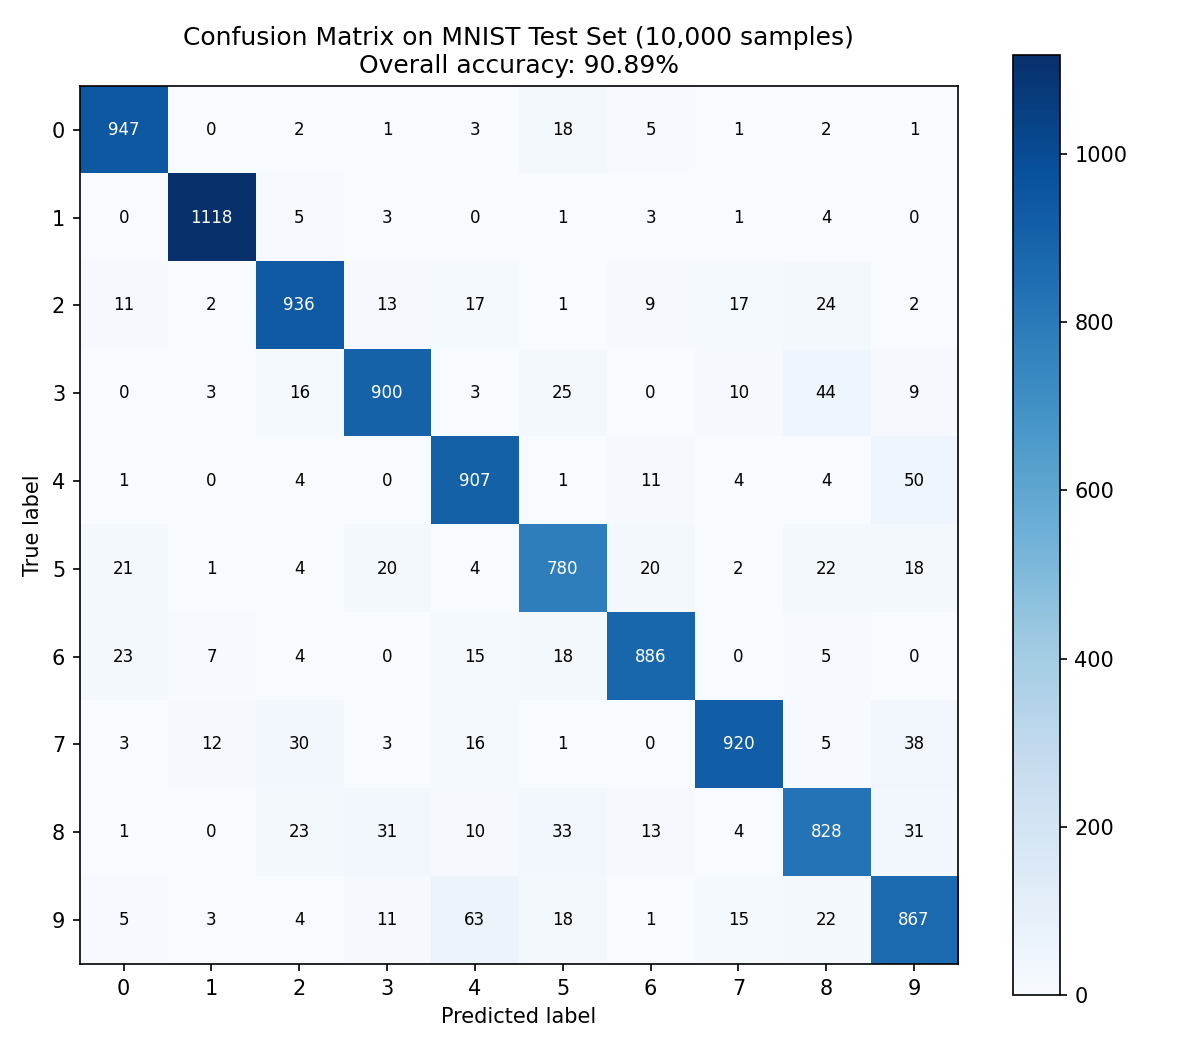
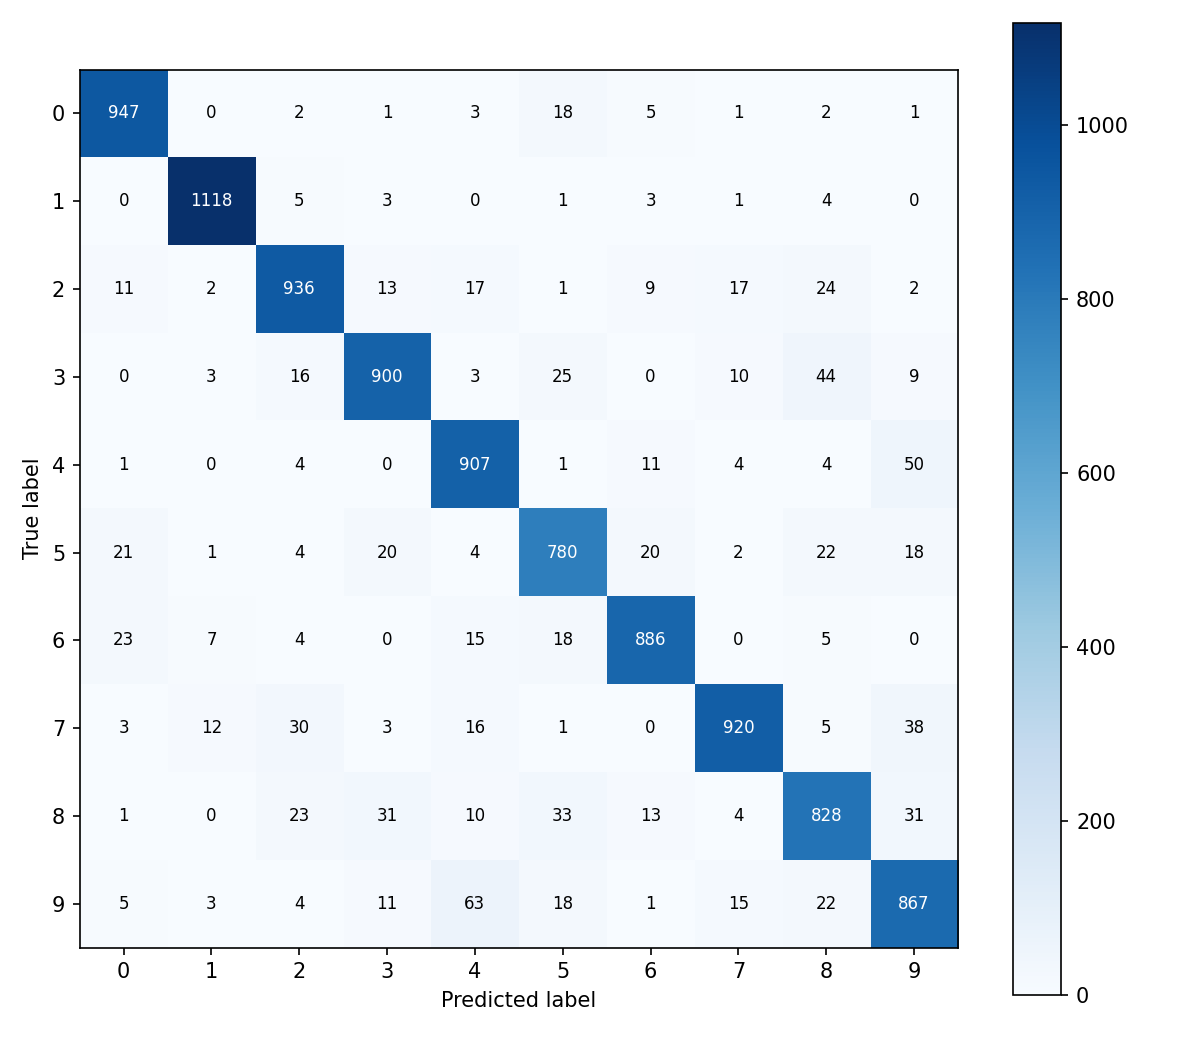
Figure polish: 1-based spin/link labels, remove in-figure titles
Claude-Session: https://claude.ai/code/session_016Csuubx3QvksjU4V1QoQvb

diff --git a/code/run_all.py b/code/run_all.py
@@ -148,7 +148,6 @@ ax2 = ax1.twinx()
 ax2.plot(np.arange(len(smooth(hB['acc']))) + 12, smooth(hB['acc']), color='navy',
          linewidth=2, label='Accuracy (smoothed)')
 ax2.set_ylabel('Mini-batch Accuracy', color='navy'); ax2.set_ylim(0, 1)
-plt.title(f'Training Dynamics (batch 128, cosine annealing)\nFinal test accuracy: {accB*100:.2f}%')
 fig.tight_layout(); plt.savefig(os.path.join(FIG, 'training_curve.png'), dpi=150); plt.close()
 
 # mnist.png: sample predictions
@@ -164,7 +163,6 @@ for i in range(8):
     ok = preds[i].item() == y_te[idx[i]].item()
     plt.title(f'P:{preds[i].item()} T:{y_te[idx[i]].item()}', color='green' if ok else 'red')
     plt.axis('off')
-plt.suptitle('Model Predictions on Test Set', y=1.05)
 plt.savefig(os.path.join(FIG, 'mnist.png'), dpi=150, bbox_inches='tight'); plt.close()
 
 # pca_components.png
@@ -173,7 +171,6 @@ for i in range(5):
     plt.subplot(1, 5, i + 1)
     plt.imshow(pca12.components_[i].reshape(28, 28), cmap='RdBu', vmin=-0.2, vmax=0.2)
     plt.title(f'PC {i+1}'); plt.axis('off')
-plt.suptitle('Input Structure: Top 5 PCA Components (Red: Positive, Blue: Negative)', y=1.08)
 plt.tight_layout(); plt.savefig(os.path.join(FIG, 'pca_components.png'), dpi=150,
                                 bbox_inches='tight'); plt.close()
 
@@ -197,11 +194,10 @@ sz_hist = np.array(sz_hist)
 plt.figure(figsize=(12, 6))
 colors = plt.cm.viridis(np.linspace(0, 1, 6))
 for s in range(6):
-    plt.plot(sz_hist[:, s], marker='o', markersize=4, label=f'Spin {s}', color=colors[s], alpha=0.8)
+    plt.plot(sz_hist[:, s], marker='o', markersize=4, label=f'Spin {s+1}', color=colors[s], alpha=0.8)
 plt.xticks(range(len(labels)), labels, rotation=45, fontsize=7)
 plt.axhline(0, color='black', linewidth=0.8, linestyle='--')
 plt.ylim(-0.6, 0.6)
-plt.title('Spin Dynamics Evolution (Test Sample 0)')
 plt.ylabel(r'Expectation Value $\langle S_z \rangle$'); plt.xlabel('Pulse Sequence (Layer-Link)')
 plt.legend(bbox_to_anchor=(1.02, 1), loc='upper left')
 plt.grid(True, linestyle=':', alpha=0.5); plt.tight_layout()
@@ -212,9 +208,8 @@ w = mB.in_w[0].detach().numpy()
 plt.figure(figsize=(10, 6))
 im = plt.imshow(w, cmap='RdBu_r', aspect='auto', vmin=-np.abs(w).max(), vmax=np.abs(w).max())
 plt.xticks(range(12), [f'PC{i+1}' for i in range(12)])
-plt.yticks(range(5), [f'Link {i+1}\n(S{i}-S{i+1})' for i in range(5)])
+plt.yticks(range(5), [f'Link {i+1}\n(S{i+1}-S{i+2})' for i in range(5)])
 plt.colorbar(im, label='Weight Magnitude')
-plt.title('Weight Heatmap: PCA Features to Quantum Pulses (Layer 1)')
 plt.xlabel('Input PCA Components'); plt.ylabel('Quantum Gate Links')
 for (jj, ii), val in np.ndenumerate(w):
     plt.text(ii, jj, f'{val:.2f}', ha='center', va='center', fontsize=7,
@@ -235,7 +230,6 @@ for i in range(10):
                  color='white' if cm[i, j] > cm.max() / 2 else 'black')
 plt.xticks(range(10)); plt.yticks(range(10))
 plt.xlabel('Predicted label'); plt.ylabel('True label')
-plt.title(f'Confusion Matrix on MNIST Test Set (10,000 samples)\nOverall accuracy: {accB*100:.2f}%')
 plt.colorbar(); plt.tight_layout()
 plt.savefig(os.path.join(FIG, 'confusion_matrix.png'), dpi=150); plt.close()
 
@@ -248,12 +242,11 @@ emb = TSNE(n_components=2, random_state=0, perplexity=30).fit_transform(feats[su
 plt.figure(figsize=(9, 7))
 scat = plt.scatter(emb[:, 0], emb[:, 1], c=y_te.numpy()[sub], cmap='tab10', s=8, alpha=0.8)
 plt.colorbar(scat, ticks=range(10), label='Digit Class')
-plt.title('t-SNE Visualization of Quantum Feature Space (11D -> 2D)')
 plt.xlabel('t-SNE component 1'); plt.ylabel('t-SNE component 2')
 plt.tight_layout(); plt.savefig(os.path.join(FIG, 'tsne.png'), dpi=150); plt.close()
 
 # signature.png: radar chart of class-averaged raw expectations
-feat_names = [f'Ex_{i}{i+1}' for i in range(5)] + [f'Sz_{i}' for i in range(6)]
+feat_names = [f'Ex {i+1}{i+2}' for i in range(5)] + [f'Sz {i+1}' for i in range(6)]
 angles = np.linspace(0, 2 * np.pi, 11, endpoint=False).tolist() + [0]
 fig, axes = plt.subplots(2, 5, figsize=(20, 8), subplot_kw={'projection': 'polar'})
 for d in range(10):
@@ -263,7 +256,6 @@ for d in range(10):
     ax.plot(angles, vals, color='teal'); ax.fill(angles, vals, color='teal', alpha=0.25)
     ax.set_xticks(angles[:-1]); ax.set_xticklabels(feat_names, fontsize=6)
     ax.set_title(f'Digit: {d}', fontsize=11)
-fig.suptitle('Quantum Feature Signatures per Digit (Raw Expectations)', fontsize=14)
 plt.tight_layout(); plt.savefig(os.path.join(FIG, 'signature.png'), dpi=150); plt.close()
 
 # stability figure
@@ -274,7 +266,6 @@ plt.plot(xs, curves.mean(0), color='tab:blue', label='Mean batch accuracy (5 see
 plt.fill_between(xs, curves.mean(0) - curves.std(0), curves.mean(0) + curves.std(0),
                  color='tab:blue', alpha=0.2, label='±1 SD')
 plt.xlabel('Training Steps'); plt.ylabel('Smoothed Mini-batch Accuracy'); plt.ylim(0, 1)
-plt.title(f'Stability over 5 Seeds — Test Accuracy {np.mean(stab)*100:.2f}% ± {np.std(stab)*100:.2f}%')
 plt.legend(); plt.grid(alpha=0.3); plt.tight_layout()
 plt.savefig(os.path.join(FIG, 'stability.png'), dpi=150); plt.close()
 
